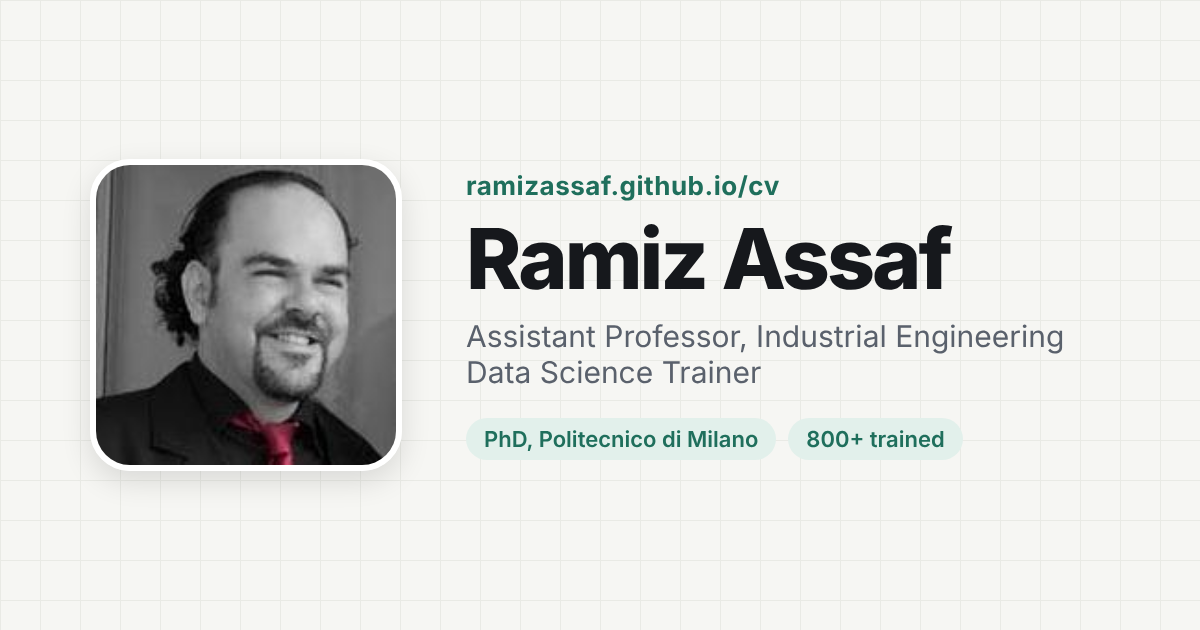
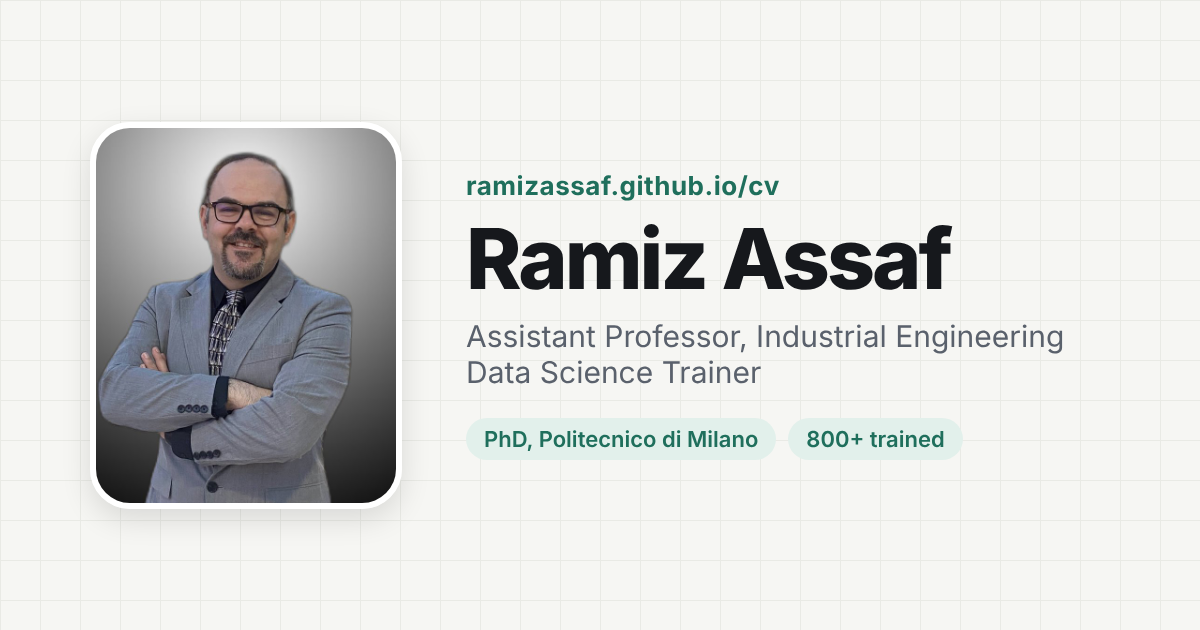
New profile photo, move live demos into a dialog, feature IE guide
Claude-Session: https://claude.ai/code/session_01GDLQtFyegFYvjNTKCe8tyV

Changed region(s): [[0.0617, 0.181, 0.3392, 0.8143]]

diff --git a/index.html b/index.html
@@ -105,9 +105,9 @@ nav {
 .btn.primary { background: var(--accent); color: #fff; border-color: var(--accent); }
 :root[data-theme="dark"] .btn.primary { color: #0f1113; }
 .avatar-wrap { position: relative; }
-.avatar-wrap img { width: 220px; height: 220px; border-radius: 28px; object-fit: cover; box-shadow: var(--shadow); border: 4px solid var(--card); display: block; }
+.avatar-wrap img { width: 240px; height: 300px; object-position: center top; border-radius: 28px; object-fit: cover; box-shadow: var(--shadow); border: 4px solid var(--card); display: block; }
 .avatar-badge { position: absolute; bottom: -14px; inset-inline-start: -14px; background: var(--card); border: 1px solid var(--line); border-radius: 14px; padding: 8px 12px; font-size: .82rem; font-weight: 600; box-shadow: var(--shadow); }
-@media (max-width: 760px) { .hero-grid { grid-template-columns: 1fr; } .avatar-wrap { order: -1; } .avatar-wrap img { width: 140px; height: 140px; } .hero { padding-top: 48px; } }
+@media (max-width: 760px) { .hero-grid { grid-template-columns: 1fr; } .avatar-wrap { order: -1; } .avatar-wrap img { width: 150px; height: 188px; } .hero { padding-top: 48px; } }
 
 /* Stats */
 .stats { display: grid; grid-template-columns: repeat(4, 1fr); gap: 14px; margin-top: 56px; }
@@ -231,6 +231,15 @@ input[type="range"] { width: 100%; accent-color: var(--accent); }
 .role-badge { font-size: .76rem; font-weight: 600; padding: 3px 10px; border-radius: 999px; background: var(--accent-soft); color: var(--accent); }
 .role-badge.co { background: var(--bg-2); color: var(--muted); border: 1px solid var(--line); }
 
+/* Demos dialog */
+.demos-dlg { width: min(1080px, calc(100vw - 32px)); max-height: calc(100vh - 32px); padding: 0; border: 1px solid var(--line); border-radius: 20px; background: var(--bg); color: var(--text); box-shadow: 0 24px 60px rgba(0,0,0,.35); }
+.demos-dlg::backdrop { background: rgba(10,14,18,.55); backdrop-filter: blur(3px); }
+.dlg-head { position: sticky; top: 0; z-index: 2; display: flex; justify-content: space-between; gap: 16px; align-items: flex-start; padding: 20px 24px 14px; background: var(--bg); border-bottom: 1px solid var(--line); }
+.dlg-head h2 { margin: 0 0 4px; font-size: 1.4rem; letter-spacing: -.02em; }
+.dlg-head p { margin: 0; color: var(--muted); font-size: .92rem; }
+.demos-dlg .lab { margin: 20px 24px; }
+@media (max-width: 600px) { .demos-dlg .lab { margin: 16px 12px; } .dlg-head { padding: 16px; } }
+
 /* Skills */
 .skill-grid { display: grid; grid-template-columns: repeat(auto-fill, minmax(300px, 1fr)); gap: 16px; }
 .skill-grid h3 { margin: 0 0 12px; font-size: 1rem; }
@@ -259,7 +268,7 @@ footer { padding: 32px 0; text-align: center; color: var(--muted); font-size: .8
   section.block { padding: 10px 0; background: none; }
   .hero { padding: 0; }
   .hero h1 { font-size: 26pt; margin: 0 0 4px; }
-  .avatar-wrap img { width: 90px; height: 90px; }
+  .avatar-wrap img { width: 90px; height: 112px; }
   .card, .stat { box-shadow: none; border: 1px solid #ddd; padding: 10px 12px; break-inside: avoid; }
   .stats { margin-top: 12px; }
   .sec-head { margin-bottom: 8px; }
@@ -280,7 +289,6 @@ footer { padding: 32px 0; text-align: center; color: var(--muted); font-size: .8
       <a href="#supervision" data-i18n="nav_sup">Supervision</a>
       <a href="#projects" data-i18n="nav_proj">Projects</a>
       <a href="#games" data-i18n="nav_games">Games</a>
-      <a href="#labs" data-i18n="nav_labs">Live demos</a>
       <a href="#skills" data-i18n="nav_skills">Skills</a>
       <a href="#contact" data-i18n="nav_contact">Contact</a>
     </div>
@@ -301,12 +309,12 @@ footer { padding: 32px 0; text-align: center; color: var(--muted); font-size: .8
         <p class="lead" data-i18n="lead">Assistant Professor of Industrial Engineering and Coordinator of the Master of Engineering Management program at An-Najah National University. I train engineers and professionals in data analytics with Excel, Python, SQL, Tableau, and Alteryx.</p>
         <div class="cta">
           <button class="btn primary" onclick="window.print()"><span>↓</span> <span data-i18n="download">Download CV</span></button>
-          <a class="btn" href="#labs"><span>▶</span> <span data-i18n="try">Try my live demos</span></a>
+          <button class="btn" type="button" data-demo=""><span>▶</span> <span data-i18n="try">Try my live demos</span></button>
           <a class="btn" href="#contact" data-i18n="hire">Get in touch</a>
         </div>
       </div>
       <div class="avatar-wrap">
-        <img src="https://avatars.githubusercontent.com/u/45326257?v=4" alt="Ramiz Assaf" width="220" height="220">
+        <img src="photo.jpg" alt="Dr. Ramiz Assaf" width="240" height="300">
         <div class="avatar-badge">📍 <span data-i18n="loc_short">Nablus, Palestine</span></div>
       </div>
     </div>
@@ -399,19 +407,27 @@ footer { padding: 32px 0; text-align: center; color: var(--muted); font-size: .8
       <p data-i18n="proj_p">Open-source work in engineering economics, statistics, and data analysis.</p>
     </div>
     <div class="proj-grid">
+      <article class="card proj reveal">
+        <div class="icon">🎓</div>
+        <h3 data-i18n="p4_t">IE Program Guide, An-Najah University</h3>
+        <p data-i18n="p4_d">Guide for high school students in Palestine who plan to join the Industrial Engineering program at An-Najah National University.</p>
+        <div class="tags"><span class="tag">Education</span><span class="tag">HTML</span><span class="tag">AI-assisted build</span><span class="tag">Netlify</span></div>
+        <a class="btn primary" style="margin-top:14px;justify-content:center" href="https://ie-program-guide-nnu-2026.netlify.app/" target="_blank" rel="noopener" data-i18n="visit">Visit the website ↗</a>
+        <div class="proj-links"><a href="https://github.com/ramizassaf/NNU-Industrial-Engineering-Guide" data-i18n="code">Code →</a></div>
+      </article>
       <article class="card proj featured reveal">
         <div class="icon">∫</div>
         <h3 data-i18n="p1_t">Normal CDF Piecewise-Linear Approximation</h3>
         <p data-i18n="p1_d">Accuracy versus complexity study of piecewise-linear approximations of the standard normal CDF. Includes minimax optimisation, a white paper written in LaTeX, and an interactive app.</p>
         <div class="tags"><span class="tag">Optimisation</span><span class="tag">Numerical methods</span><span class="tag">LaTeX</span><span class="tag">JavaScript</span></div>
-        <div class="proj-links"><a href="https://github.com/ramizassaf/normal-cdf-piecewise-linear" data-i18n="code">Code →</a><a href="#lab-cdf" data-i18n="demo">Live demo →</a></div>
+        <div class="proj-links"><a href="https://github.com/ramizassaf/normal-cdf-piecewise-linear" data-i18n="code">Code →</a><a href="#" data-demo="lab-cdf" data-i18n="demo">Live demo →</a></div>
       </article>
       <article class="card proj reveal">
         <div class="icon">⚖</div>
         <h3 data-i18n="p2_t">Break-Even Location Finder</h3>
         <p data-i18n="p2_d">Locational break-even analysis. Finds the cheapest alternative at every volume and the break-even quantities. Bilingual web app plus Python.</p>
         <div class="tags"><span class="tag">Operations</span><span class="tag">Python</span><span class="tag">Web app</span></div>
-        <div class="proj-links"><a href="https://github.com/ramizassaf/break-even-location-finder" data-i18n="code">Code →</a><a href="#lab-be" data-i18n="demo">Live demo →</a></div>
+        <div class="proj-links"><a href="https://github.com/ramizassaf/break-even-location-finder" data-i18n="code">Code →</a><a href="#" data-demo="lab-be" data-i18n="demo">Live demo →</a></div>
       </article>
       <article class="card proj reveal">
         <div class="icon">$</div>
@@ -419,13 +435,6 @@ footer { padding: 32px 0; text-align: center; color: var(--muted); font-size: .8
         <p data-i18n="p3_d">Ranks project alternatives by present, future, and annual worth, computes IRR, plots cash flow diagrams, and recommends the best option.</p>
         <div class="tags"><span class="tag">Python</span><span class="tag">NumPy</span><span class="tag">Matplotlib</span></div>
         <div class="proj-links"><a href="https://github.com/ramizassaf/Engineering-Economy" data-i18n="code">Code →</a></div>
-      </article>
-      <article class="card proj reveal">
-        <div class="icon">🎓</div>
-        <h3 data-i18n="p4_t">NNU Industrial Engineering Guide</h3>
-        <p data-i18n="p4_d">Guide for high school students in Palestine who plan to join the Industrial Engineering program at An-Najah National University.</p>
-        <div class="tags"><span class="tag">Education</span><span class="tag">HTML</span><span class="tag">AI-assisted build</span><span class="tag">Netlify</span></div>
-        <div class="proj-links"><a href="https://github.com/ramizassaf/NNU-Industrial-Engineering-Guide" data-i18n="code">Code →</a><a href="https://ie-program-guide-nnu-2026.netlify.app/" target="_blank" rel="noopener" data-i18n="site">Live site ↗</a></div>
       </article>
       <article class="card proj reveal">
         <div class="icon">A/B</div>
@@ -497,15 +506,12 @@ footer { padding: 32px 0; text-align: center; color: var(--muted); font-size: .8
   </div>
 </section>
 
-<section class="block" id="labs">
-  <div class="container">
-    <div class="sec-head reveal">
-      <div class="kicker">06 / live demos</div>
-      <h2 data-i18n="labs_h">Try my work, right here</h2>
-      <p data-i18n="labs_p">Two of my projects running live in your browser. Change the inputs and watch the results update.</p>
-    </div>
-
-    <div class="card lab reveal" id="lab-be">
+<dialog id="demos" class="demos-dlg" aria-labelledby="demosTitle">
+  <div class="dlg-head">
+    <div><h2 id="demosTitle" data-i18n="labs_h">Try my work, right here</h2><p data-i18n="labs_p">Two of my projects running live in your browser. Change the inputs and watch the results update.</p></div>
+    <button class="icon-btn" type="button" id="demosClose" aria-label="Close">✕</button>
+  </div>
+    <div class="card lab" id="lab-be">
       <h3 data-i18n="be_t">Break-even calculator</h3>
       <p class="sub" data-i18n="be_s">Total cost = fixed cost + variable cost × volume. Find the cheapest option at every volume.</p>
       <div class="lab-grid">
@@ -525,7 +531,7 @@ footer { padding: 32px 0; text-align: center; color: var(--muted); font-size: .8
       </div>
     </div>
 
-    <div class="card lab reveal" id="lab-cdf">
+    <div class="card lab" id="lab-cdf">
       <h3 data-i18n="cdf_t">Normal CDF approximation</h3>
       <p class="sub" data-i18n="cdf_s">Approximate Φ(x) with straight-line segments on [−4, 4]. More segments mean lower error. This demo uses equally spaced knots. My paper optimises the knots with a minimax method.</p>
       <div class="lab-grid">
@@ -549,13 +555,12 @@ footer { padding: 32px 0; text-align: center; color: var(--muted); font-size: .8
         </div>
       </div>
     </div>
-  </div>
-</section>
+</dialog>
 
-<section class="block alt" id="skills">
+<section class="block" id="skills">
   <div class="container">
     <div class="sec-head reveal">
-      <div class="kicker">07 / skills</div>
+      <div class="kicker">06 / skills</div>
       <h2 data-i18n="skills_h">Skills</h2>
     </div>
     <div class="skill-grid">
@@ -568,10 +573,10 @@ footer { padding: 32px 0; text-align: center; color: var(--muted); font-size: .8
   </div>
 </section>
 
-<section class="block" id="contact">
+<section class="block alt" id="contact">
   <div class="container">
     <div class="sec-head reveal">
-      <div class="kicker">08 / contact</div>
+      <div class="kicker">07 / contact</div>
       <h2 data-i18n="contact_h">Let's work together</h2>
       <p data-i18n="contact_p">Send a message about training, research, thesis supervision, or collaboration.</p>
     </div>
@@ -623,7 +628,7 @@ const AR = {
   p1_t: "تقريب دالة التوزيع الطبيعي التراكمية خطياً", p1_d: "دراسة الدقة مقابل التعقيد لتقريب دالة التوزيع الطبيعي التراكمية بقطع خطية، مع تحسين minimax وورقة بحثية بـ LaTeX وتطبيق تفاعلي.",
   p2_t: "أداة نقطة التعادل لاختيار الموقع", p2_d: "تحليل نقطة التعادل للمواقع: يحدد البديل الأرخص عند كل حجم إنتاج وكميات التعادل. تطبيق ويب ثنائي اللغة مع Python.",
   p3_t: "تحليل الاقتصاد الهندسي", p3_d: "يرتّب البدائل حسب القيمة الحالية والمستقبلية والسنوية، ويحسب معدل العائد الداخلي، ويرسم مخططات التدفق النقدي، ويوصي بالخيار الأفضل.",
-  p4_t: "دليل الهندسة الصناعية في جامعة النجاح", p4_d: "دليل لطلاب الثانوية في فلسطين الراغبين بدراسة الهندسة الصناعية في جامعة النجاح الوطنية.",
+  p4_t: "دليل برنامج الهندسة الصناعية، جامعة النجاح", visit: "زيارة الموقع ↗", p4_d: "دليل لطلاب الثانوية في فلسطين الراغبين بدراسة الهندسة الصناعية في جامعة النجاح الوطنية.",
   p5_t: "تحليل نتائج اختبار A/B", p5_d: "تحليل إحصائي لاختبار A/B: اختبار الفرضيات والانحدار وتوصية بالإطلاق.",
   p6_t: "تحليل بيانات كرة القدم الأوروبية", p6_d: "تحليل استكشافي لبيانات كرة القدم الأوروبية: تنظيف البيانات واستكشاف الخصائص ونتائج مرئية.",
   code: "الكود ←", demo: "عرض حي ←",
@@ -936,6 +941,18 @@ function drawSup() {
       </div>
     </article>`).join("");
 }
+
+/* ---------- Demos dialog ---------- */
+const demos = document.getElementById("demos");
+document.addEventListener("click", ev => {
+  const t = ev.target.closest("[data-demo]"); if (!t) return;
+  ev.preventDefault();
+  demos.showModal(); drawBE(); drawCDF();
+  const id = t.dataset.demo;
+  if (id) document.getElementById(id).scrollIntoView({ block: "start" }); else demos.scrollTop = 0;
+});
+document.getElementById("demosClose").onclick = () => demos.close();
+demos.addEventListener("click", ev => { if (ev.target === demos) demos.close(); });
 
 /* ---------- Contact ---------- */
 document.getElementById("contactForm").addEventListener("submit", async ev => {
